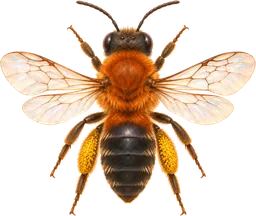
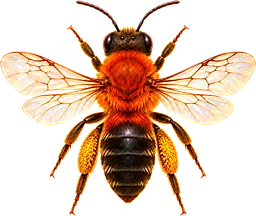
update

diff --git a/fauna/interaktiv/sammelflug.html b/fauna/interaktiv/sammelflug.html
@@ -374,7 +374,7 @@ const BILD = {
   spinne: () => `<g transform="translate(60 45)"><path d="M-3 -2 L-12 -8 M-3 0 L-13 -1 M-3 2 L-11 6 M3 -2 L12 -8 M3 0 L13 -1 M3 2 L11 6" stroke="#b9aa55" stroke-width="1.5" fill="none" stroke-linecap="round"/><ellipse cx="0" cy="2" rx="5.5" ry="6" fill="#fffbd6" stroke="#b9aa55" stroke-width="1"/><circle cx="0" cy="-4.5" r="3" fill="#fff6bd" stroke="#b9aa55" stroke-width="1"/></g>`
 };
 /* Gemalte Bilder (ChatGPT, 20. 11. 2026) in ../images/sammelflug/ – bei Austausch unter gleichem Namen BV erhöhen */
-const BIMG = "../images/sammelflug/", BV = "?v=1";
+const BIMG = "../images/sammelflug/", BV = "?v=2";
 const FOTO = { loewe: 1, gaense: 1, hahn: 1, taub: 1, schluessel: 1 };   // Blütenbuch: gemalte Blüte statt Zeichnung
 // Spielfeld: gemalte Blüte (freigestellt, unten ausgerichtet) statt Zeichnung, sonst die Zeichnung
 const feldBild = (t, i) => FOTO[t] ? `<image href="${BIMG}bluete-${t}.webp${BV}" x="5" y="3" width="90" height="94" preserveAspectRatio="xMidYMax meet"/>` : BILD[t](i);
